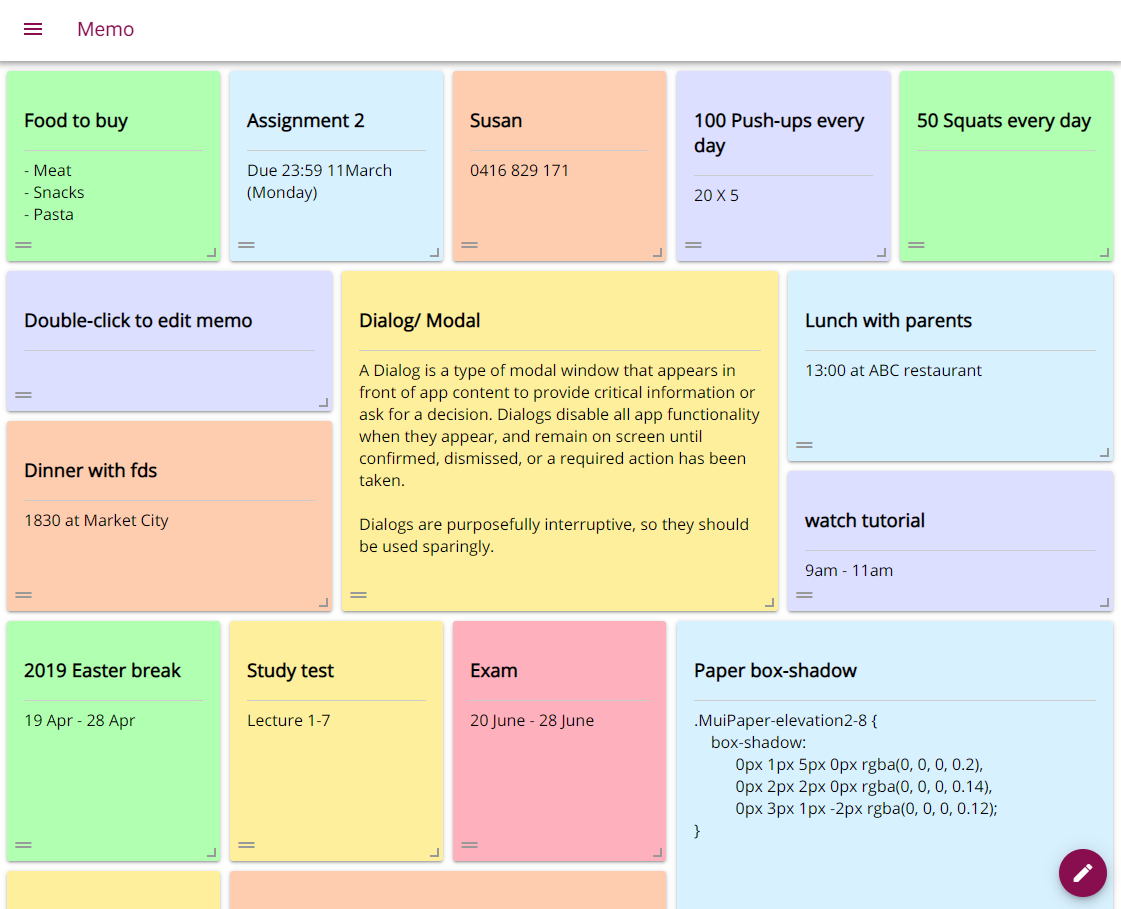
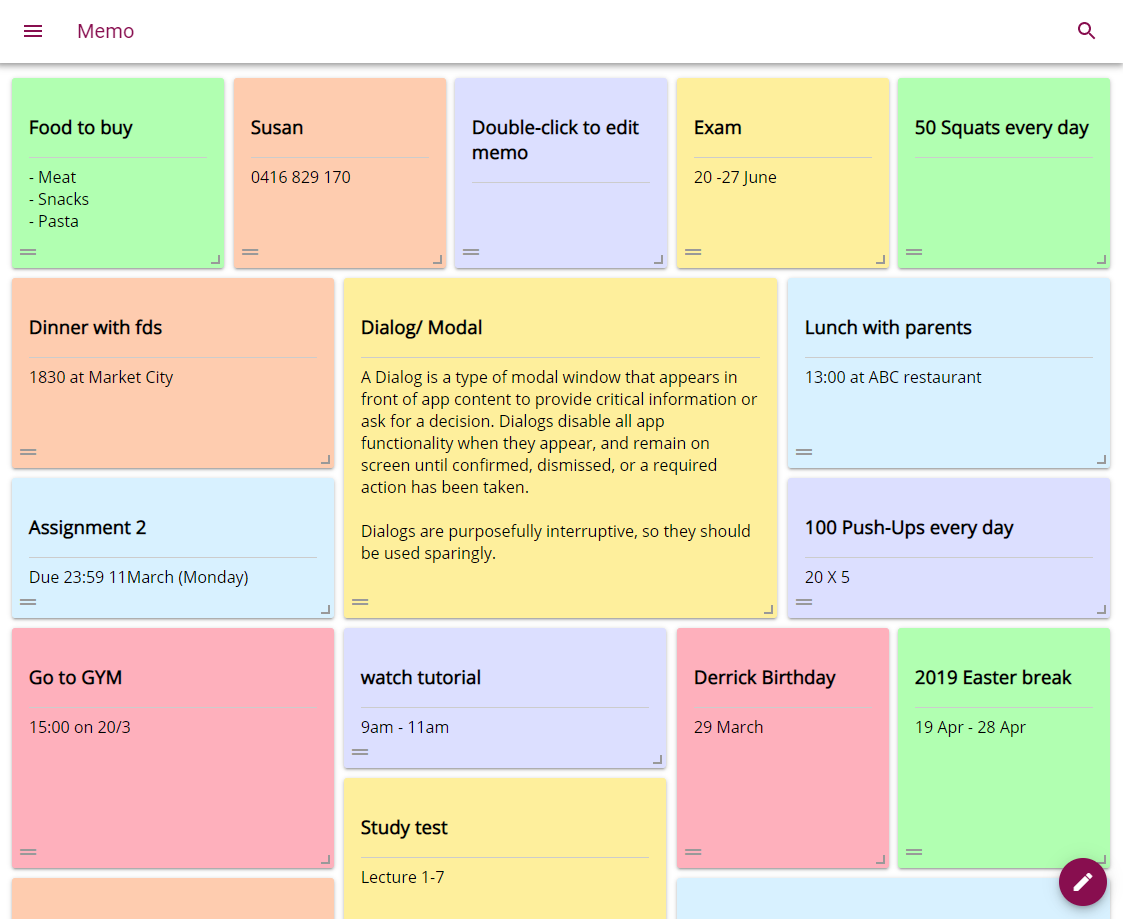
Update the Memo App.

diff --git a/index.html b/index.html
@@ -131,7 +131,7 @@
             <img src="./img/projects/memo.png" alt="Image of Memo App">
             <div class="card-content">
               <h3 class="card-title">Memo App</h3>
-              <p class="project-description">A React app that can resize, drag, filter, create, edit and delete memos.</p>
+              <p class="project-description">A React app that can resize, drag, filter, search, create, edit and delete memos.</p>
               <button class="button more-btn" data-target="#modal-memo-app">
                 <i class="fas fa-angle-double-right icon"></i>
                 More
@@ -262,9 +262,10 @@
                   <li>Resizes memos to adjust the width and height manually</li>
                   <li>Drags memos to reorder them</li>
                   <li>Stores memos layout on Local Storage</li>
-                  <li>Sync. memos title, content and colors on Firebase</li>
+                  <li>Sync. memos title, content and color on Firebase</li>
                   <li>Sync. creation, update, and deletion of memos on Firebase</li>
                   <li>Filters memos by color</li>
+                  <li>Finds memos by word</li>
                   <li>Adapts Google's Material Design by using Material-UI</li>
                   <li>Supports responsive web design</li>
                 </ul>
